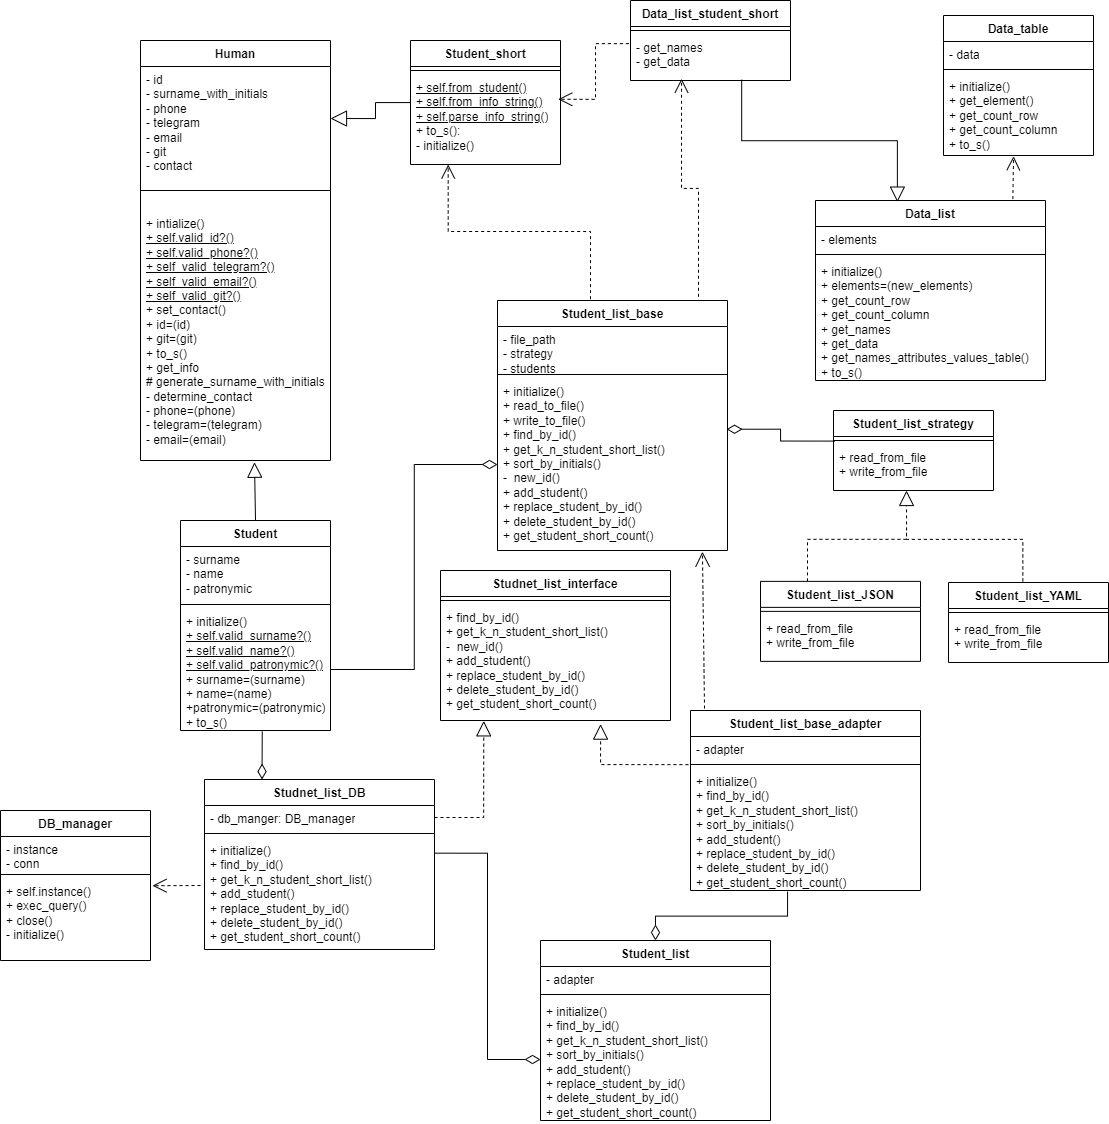
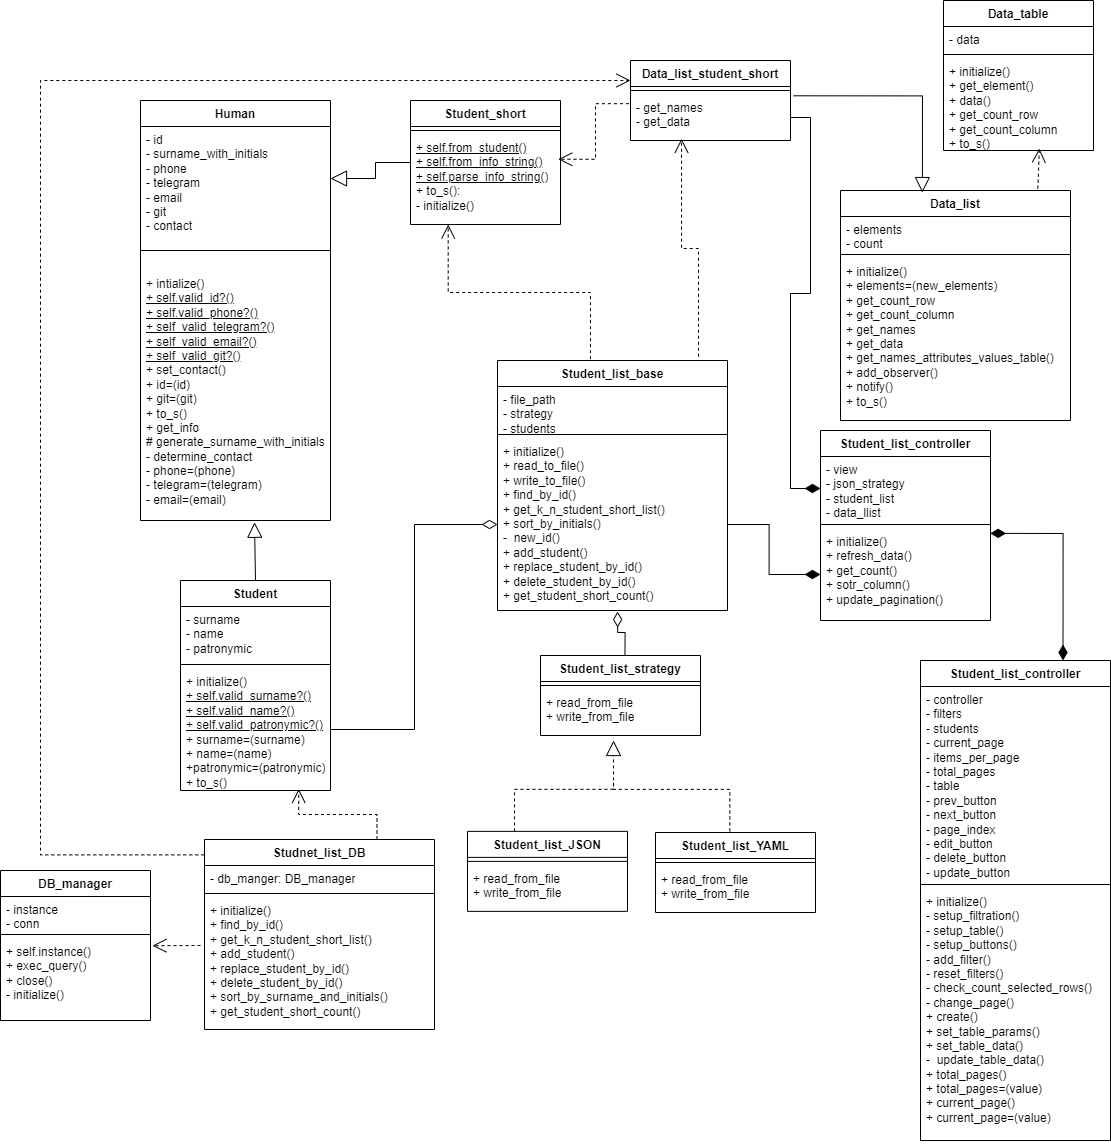
Lb5 Update diagram

diff --git a/Student/App/student_list_controller.rb b/Student/App/student_list_controller.rb
@@ -1,6 +1,6 @@
 require_relative '../student_list/student_list_base'
 require_relative '../student_list/student_list_json'
-require_relative '../student_list/student_list_db'
+# require_relative '../student_list/student_list_db'
 require_relative '../date/data_list_student_short'
 require_relative 'student_list_view'
 
@@ -16,8 +16,12 @@ class Student_list_controller
 
   def refresh_data
     @student_list.get_k_n_student_short_list(k: @view.current_page + 1, n: @view.items_per_page, data_list: @data_list)
-    @data_list.count = get_count
+    total_count = get_count
+    update_pagination(total_count)
+    @data_list.count = total_count
     @data_list.notify
+    @student_list.read_to_file
+
   end
 
   def get_count
@@ -27,5 +31,16 @@ class Student_list_controller
   def sort_column
     @student_list.sort_by_initials
   end
+
+  def update_pagination(total_count)
+    @view.total_pages = (total_count / @view.items_per_page.to_f).ceil
+
+    if @view.current_page >= @view.total_pages
+      @view.current_page = [@view.total_pages - 1, 0].max
+    end
+  end
+
+
+
 end
 

diff --git a/Student/App/student_list_view.rb b/Student/App/student_list_view.rb
@@ -1,6 +1,6 @@
 require 'fox16'
 require_relative 'student_list_controller'
-require_relative '../student_list/student_list_db'
+# require_relative '../student_list/student_list_db'
 
 
 include Fox
@@ -108,10 +108,12 @@ class Student_list_view < FXMainWindow
 
     @prev_button.connect(SEL_COMMAND) do
       change_page(-1)
+      @controller.refresh_data
 
     end
     @next_button.connect(SEL_COMMAND) do
       change_page(1)
+      @controller.refresh_data
 
     end
   end
@@ -195,6 +197,25 @@ class Student_list_view < FXMainWindow
 
   private :setup_filtration, :add_filter, :reset_filters, :setup_buttons, :change_page, :update_table_data, :check_count_selected_rows, :setup_table
 
+  def total_pages
+    @total_pages
+  end
+
+  def total_pages=(value)
+    @total_pages = value
+    @page_index.setText("#{@current_page + 1} / #{@total_pages}") if @page_index
+  end
+
+  def current_page
+    @current_page
+  end
+
+  def current_page=(value)
+    if value >= 0 && value < @total_pages
+      @current_page = value
+      @controller.refresh_data
+    end
+  end
 
 
 
